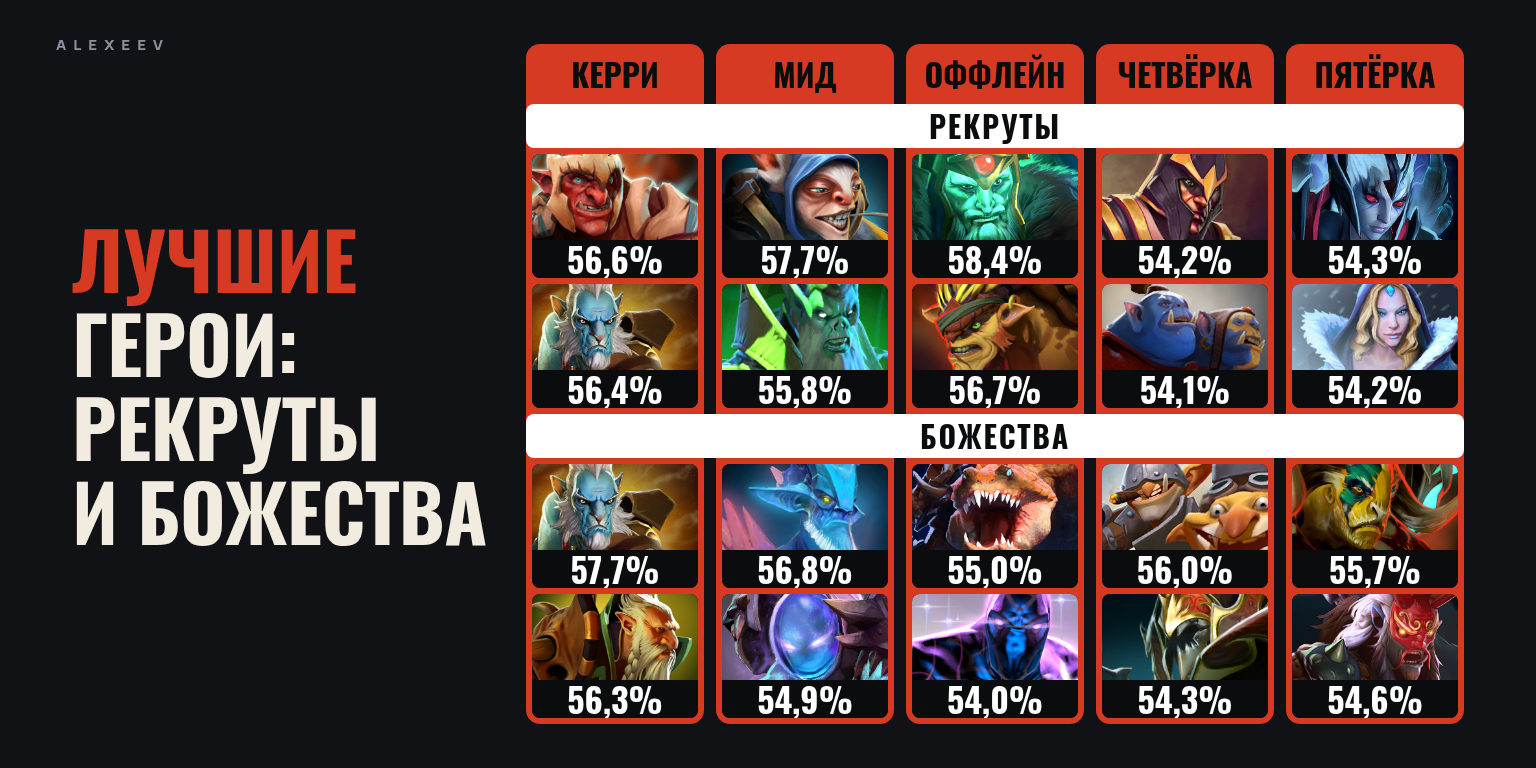
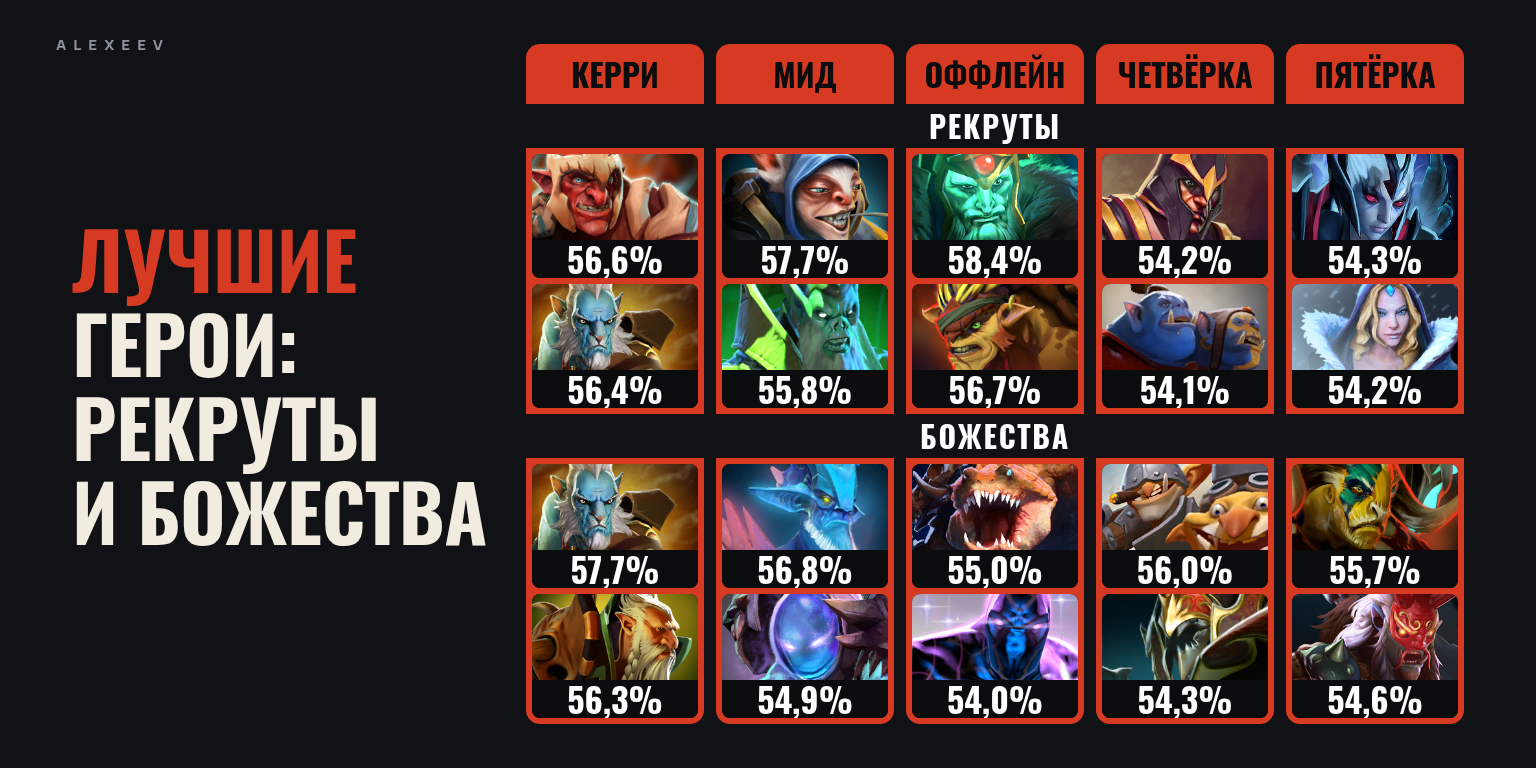
fix(rubrics): tier-list block bands in the background colour, square, white text; unused design drafts removed

Changed region(s): [[0.3438, 0.125, 0.9688, 0.2188], [0.3438, 0.5312, 0.9688, 0.5938]]

diff --git a/apps/backend/src/modules/rubrics/tier-list.ts b/apps/backend/src/modules/rubrics/tier-list.ts
@@ -367,8 +367,8 @@ white-space:nowrap;color:#f1ebe0;align-self:flex-start}
 font-size:32px;line-height:1;text-transform:uppercase;color:#0b0c0e}
 .grid.rows{left:532px;top:50px;width:926px;height:668px;display:grid;grid-template-columns:repeat(5,166px);column-gap:24px;row-gap:6px}
 .bg{margin:-6px;border-radius:14px;background:var(--red)}
-.band{margin:0 -6px;border-radius:8px;background:#ffffff;display:flex;align-items:center;justify-content:center;
-font-family:Oswald,sans-serif;font-weight:700;font-size:30px;line-height:1;letter-spacing:.06em;text-transform:uppercase;color:#0b0c0e}
+.band{margin:0 -6px;background:#101216;display:flex;align-items:center;justify-content:center;
+font-family:Oswald,sans-serif;font-weight:700;font-size:30px;line-height:1;letter-spacing:.06em;text-transform:uppercase;color:#ffffff}
 .tile{flex:1 1 0;min-height:0;border-radius:8px;overflow:hidden;background:#0b0c0e;display:flex;flex-direction:column;position:relative}
 .tile img{flex:1 1 0;min-height:0;width:100%;object-fit:cover;object-position:50% 30%;display:block}
 .num{height:38px;flex:none;display:flex;align-items:center;justify-content:center;font-family:Oswald,sans-serif;font-weight:700;
